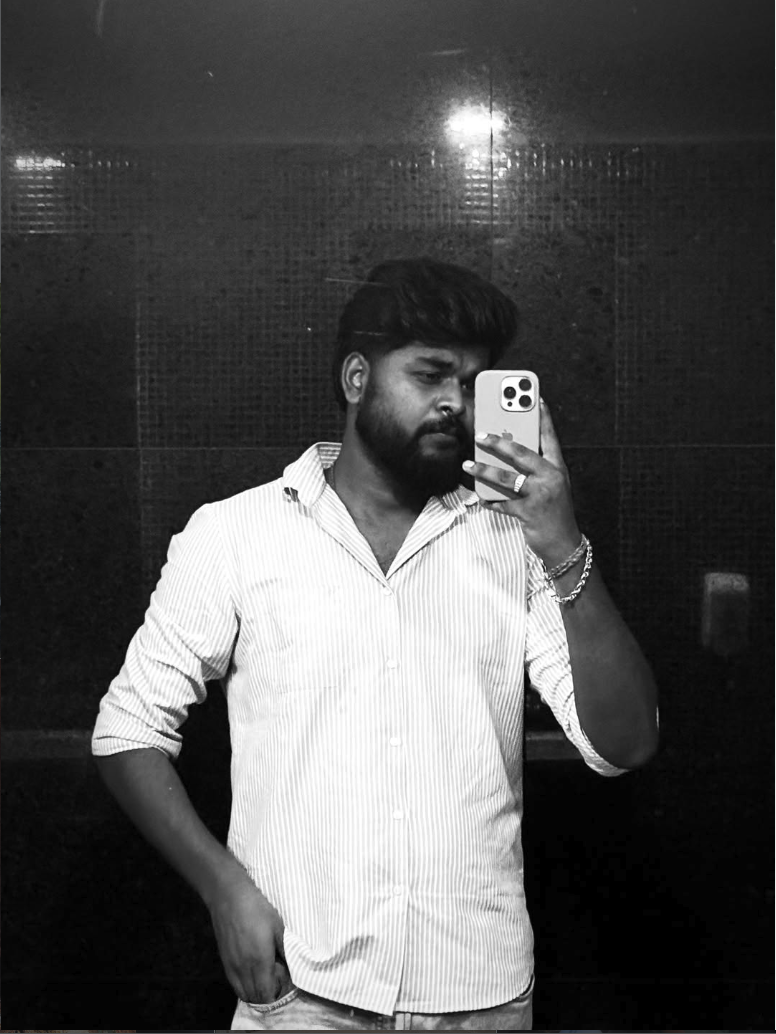
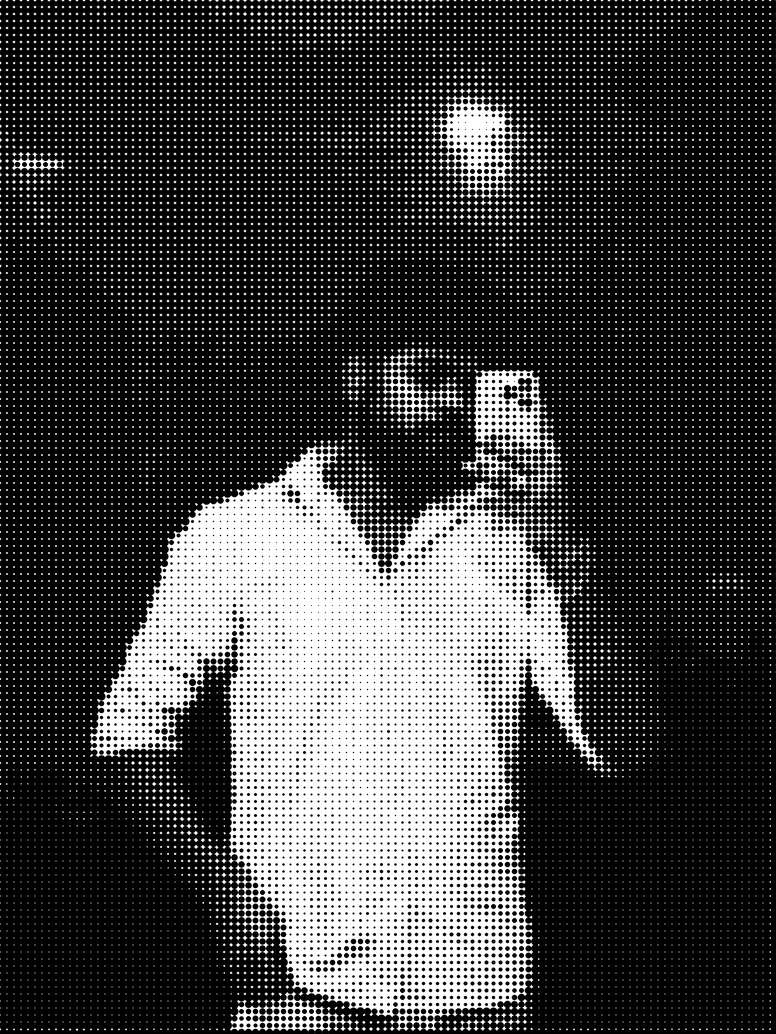
mobile fix

diff --git a/src/sections/Skills.tsx b/src/sections/Skills.tsx
@@ -195,9 +195,11 @@ function IconTile({
   size?: 'sm' | 'md'
   index?: number
 }) {
-  const iconSize = size === 'sm' ? 14 : 16
-  const padding = size === 'sm' ? 'px-2 py-1.5' : 'px-2.5 py-2'
-  const textSize = size === 'sm' ? 'text-[10px]' : 'text-[11px]'
+  // Icon and typography scale down on narrow viewports so cards do not overflow.
+  const iconSize = size === 'sm' ? 12 : 14
+  const padding =
+    size === 'sm' ? 'px-1.5 py-1 sm:px-2 sm:py-1.5' : 'px-2 py-1.5 sm:px-2.5 sm:py-2'
+  const textSize = size === 'sm' ? 'text-[9px] sm:text-[10px]' : 'text-[10px] sm:text-[11px]'
   return (
     <motion.div
       initial={{ opacity: 0, y: 8, scale: 0.94 }}
@@ -295,19 +297,27 @@ function LayeredVisual({
 }
 
 function WindowVisual({ tools, accent }: { tools: Tool[]; accent: string }) {
-  const windows = [
-    { top: '6%', left: '6%', width: '62%', tools: tools.slice(0, 4) },
-    { top: '30%', left: '30%', width: '62%', tools: tools.slice(4, 8) },
-    { top: '54%', left: '10%', width: '60%', tools: tools.slice(8, tools.length) },
+  const groups = [
+    {
+      tools: tools.slice(0, 4),
+      pos: 'md:absolute md:top-[6%] md:left-[6%] md:w-[62%]',
+    },
+    {
+      tools: tools.slice(4, 8),
+      pos: 'md:absolute md:top-[30%] md:left-[30%] md:w-[62%]',
+    },
+    {
+      tools: tools.slice(8, tools.length),
+      pos: 'md:absolute md:top-[54%] md:left-[10%] md:w-[60%]',
+    },
   ]
   let index = 0
   return (
-    <>
-      {windows.map((w, i) => (
+    <div className="md:absolute md:inset-0 flex flex-col gap-2 p-4 md:p-0">
+      {groups.map((g, i) => (
         <div
           key={i}
-          className="absolute rounded-xl bg-[#151515] border border-white/[0.08] shadow-[0_20px_50px_-15px_rgba(0,0,0,0.75)] overflow-hidden"
-          style={{ top: w.top, left: w.left, width: w.width }}
+          className={`rounded-xl bg-[#151515] border border-white/[0.08] shadow-[0_20px_50px_-15px_rgba(0,0,0,0.75)] overflow-hidden ${g.pos}`}
         >
           <div className="flex items-center gap-1 px-3 py-1.5 border-b border-white/[0.05] bg-black/40">
             <span className="w-1.5 h-1.5 rounded-full bg-white/20" />
@@ -315,7 +325,7 @@ function WindowVisual({ tools, accent }: { tools: Tool[]; accent: string }) {
             <span className="w-1.5 h-1.5 rounded-full bg-white/20" />
           </div>
           <div className="p-2 flex flex-wrap gap-1.5">
-            {w.tools.map((t) => {
+            {g.tools.map((t) => {
               const idx = index++
               return (
                 <IconTile
@@ -330,7 +340,7 @@ function WindowVisual({ tools, accent }: { tools: Tool[]; accent: string }) {
           </div>
         </div>
       ))}
-    </>
+    </div>
   )
 }
 
@@ -364,12 +374,12 @@ function PipelineVisual({
         aria-hidden
         viewBox="0 0 100 100"
         preserveAspectRatio="none"
-        className="absolute inset-4 pointer-events-none"
+        className="absolute inset-4 pointer-events-none hidden sm:block"
       >
         <line x1="33" y1="50" x2="35" y2="50" stroke={accent} strokeOpacity="0.35" strokeWidth="0.6" strokeDasharray="1 1" />
         <line x1="66" y1="50" x2="68" y2="50" stroke={accent} strokeOpacity="0.35" strokeWidth="0.6" strokeDasharray="1 1" />
       </svg>
-      <div className="relative h-full grid grid-cols-3 gap-2">
+      <div className="relative h-full grid grid-cols-1 sm:grid-cols-3 gap-2">
         {cols.map((c) => (
           <div
             key={c.label}
@@ -497,7 +507,9 @@ function OrchestratorVisual({
     <div className="absolute inset-0 p-4">
       <div
         className={`relative h-full ${
-          wide ? 'grid grid-cols-3 gap-3' : 'flex flex-col gap-2'
+          wide
+            ? 'flex flex-col gap-2 lg:grid lg:grid-cols-3 lg:gap-3'
+            : 'flex flex-col gap-2'
         }`}
       >
         <SatelliteGroup
@@ -615,8 +627,8 @@ function CategoryCard({
       <div
         className={`relative overflow-hidden ${
           wide
-            ? 'h-64 lg:h-auto lg:w-3/5 lg:border-b-0 lg:border-r border-b border-white/[0.05]'
-            : 'h-64 md:h-72 border-b border-white/[0.05]'
+            ? 'min-h-[360px] lg:min-h-0 lg:h-auto lg:w-3/5 lg:border-b-0 lg:border-r border-b border-white/[0.05]'
+            : 'min-h-[340px] md:h-72 md:min-h-0 border-b border-white/[0.05]'
         }`}
       >
         {category.visual === 'stack' && (

diff --git a/src/sections/Hero.tsx b/src/sections/Hero.tsx
@@ -20,6 +20,11 @@ const CHIPS = [
 
 const REVERSE_STEP = 1 / 25
 
+function isTouchDevice(): boolean {
+  if (typeof window === 'undefined') return false
+  return window.matchMedia('(hover: none) and (pointer: coarse)').matches
+}
+
 export function Hero() {
   const videoRef = useRef<HTMLVideoElement>(null)
 
@@ -27,6 +32,45 @@ export function Hero() {
     const v = videoRef.current
     if (!v) return
 
+    // iOS requires the element to be muted BEFORE play() is invoked.
+    v.muted = true
+    v.defaultMuted = true
+    v.setAttribute('muted', '')
+    v.setAttribute('playsinline', '')
+    v.setAttribute('webkit-playsinline', 'true')
+
+    const kick = () => {
+      const p = v.play()
+      if (p && typeof p.then === 'function') p.catch(() => {})
+    }
+
+    // Retry autoplay when the tab becomes visible again or on first user gesture.
+    const onVisible = () => {
+      if (document.visibilityState === 'visible' && v.paused) kick()
+    }
+    const onFirstTouch = () => {
+      if (v.paused) kick()
+      window.removeEventListener('touchstart', onFirstTouch)
+      window.removeEventListener('click', onFirstTouch)
+    }
+    document.addEventListener('visibilitychange', onVisible)
+    window.addEventListener('touchstart', onFirstTouch, { passive: true })
+    window.addEventListener('click', onFirstTouch)
+
+    // On touch devices, skip the reverse-scrub ping-pong (currentTime seeks
+    // are expensive on iOS and often surface the native play button when the
+    // scrub pauses).  Just use the plain `loop` attribute set below.
+    if (isTouchDevice()) {
+      v.loop = true
+      kick()
+      return () => {
+        document.removeEventListener('visibilitychange', onVisible)
+        window.removeEventListener('touchstart', onFirstTouch)
+        window.removeEventListener('click', onFirstTouch)
+      }
+    }
+
+    // Desktop: forward → reverse-scrub → forward ping-pong.
     let direction: 'forward' | 'backward' = 'forward'
     let seeking = false
     let raf = 0
@@ -35,7 +79,6 @@ export function Hero() {
     const onSeeked = () => {
       seeking = false
     }
-
     const reverseStep = () => {
       if (cancelled || direction !== 'backward') return
       if (seeking) {
@@ -46,14 +89,13 @@ export function Hero() {
       if (next <= 0.02) {
         direction = 'forward'
         v.currentTime = 0
-        v.play().catch(() => {})
+        kick()
         return
       }
       seeking = true
       v.currentTime = next
       raf = requestAnimationFrame(reverseStep)
     }
-
     const onEnded = () => {
       direction = 'backward'
       v.pause()
@@ -63,12 +105,15 @@ export function Hero() {
 
     v.addEventListener('ended', onEnded)
     v.addEventListener('seeked', onSeeked)
-    v.play().catch(() => {})
+    kick()
 
     return () => {
       cancelled = true
       v.removeEventListener('ended', onEnded)
       v.removeEventListener('seeked', onSeeked)
+      document.removeEventListener('visibilitychange', onVisible)
+      window.removeEventListener('touchstart', onFirstTouch)
+      window.removeEventListener('click', onFirstTouch)
       cancelAnimationFrame(raf)
     }
   }, [])
@@ -81,7 +126,8 @@ export function Hero() {
           autoPlay
           muted
           playsInline
-          className="absolute inset-0 w-full h-full object-cover"
+          preload="auto"
+          className="absolute inset-0 w-full h-full object-cover pointer-events-none"
           src="/hero.mp4"
         />
 

diff --git a/src/components/PortraitCollage.tsx b/src/components/PortraitCollage.tsx
@@ -1,0 +1,40 @@
+/**
+ * Displays the pre-processed halftone portrait inside a circular frame.
+ * The source at /my-portrait-halftone.png is already halftoned, so we just
+ * present it with the site's polish (glow, ring, caption pill).
+ */
+export function PortraitCollage() {
+  return (
+    <div className="relative aspect-square w-full max-w-[340px] mx-auto">
+      <div
+        aria-hidden
+        className="absolute -inset-6 rounded-full pointer-events-none"
+        style={{
+          background:
+            'radial-gradient(circle, rgba(169, 233, 251, 0.12) 0%, rgba(252, 215, 237, 0.06) 40%, transparent 70%)',
+          filter: 'blur(20px)',
+        }}
+      />
+
+      <div className="relative aspect-square w-full rounded-full overflow-hidden ring-1 ring-primary/20 shadow-[0_30px_60px_-20px_rgba(0,0,0,0.8)] bg-[#0a0a0a]">
+        <img
+          src="/my-image.png"
+          alt="Portrait of Lalit Moharana"
+          className="absolute inset-0 w-full h-full object-cover object-[center_38%] scale-[1.05]"
+        />
+
+        <div
+          aria-hidden
+          className="absolute inset-0 rounded-full pointer-events-none"
+          style={{
+            boxShadow: 'inset 0 0 0 1px rgba(255, 255, 255, 0.06)',
+          }}
+        />
+      </div>
+
+      <div className="absolute -bottom-2 left-1/2 -translate-x-1/2 whitespace-nowrap text-[9px] tracking-[0.3em] uppercase text-primary/60 bg-[#101010] px-3 py-1 rounded-full ring-1 ring-white/[0.06]">
+        Lalit M. · 2026
+      </div>
+    </div>
+  )
+}
